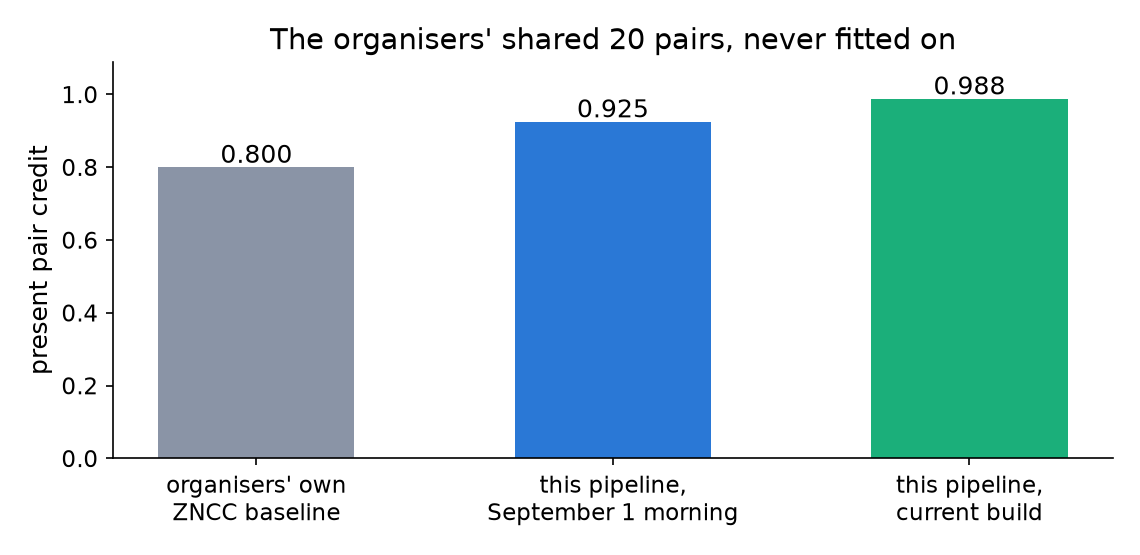
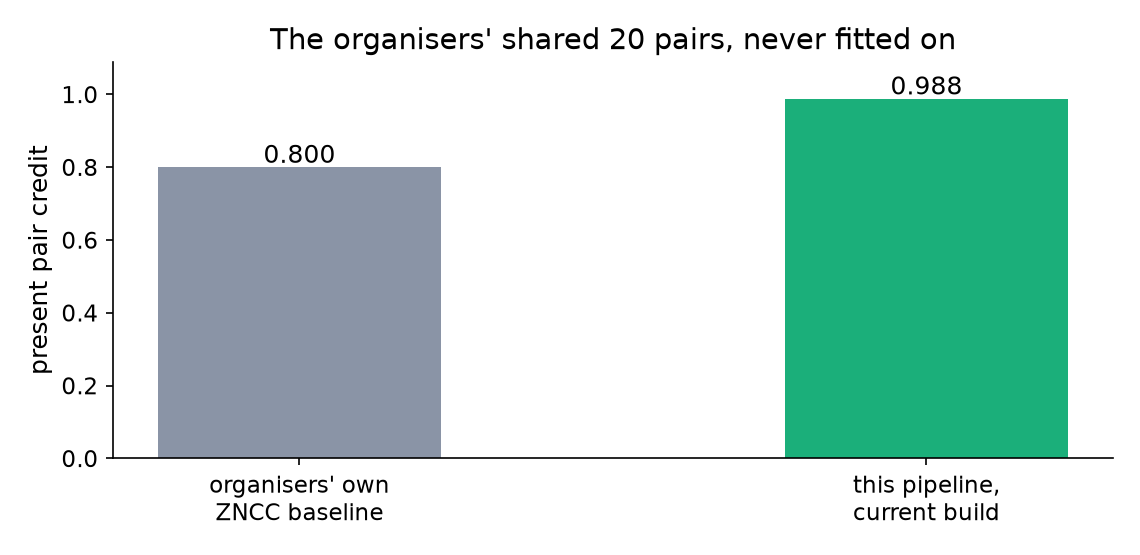
Answer the submission checklist's two verification lines and current the video facing surfaces: a fresh Python 3.11 virtual environment built from the archive's own requirements installs, generates two pairs and registers both through the entry point, proving runnable code, dependencies and outputs 

diff --git a/scripts/make_phase2_figures.py b/scripts/make_phase2_figures.py
@@ -169,10 +169,9 @@ def runtime():
 def organiser_sample():
     """experiments/20260901_organiser_sample_validation and the final battery."""
     fig, ax = plt.subplots(figsize=(7.6, 3.7))
-    labels = ["organisers' own\nZNCC baseline", "this pipeline,\nSeptember 1 morning",
-              "this pipeline,\ncurrent build"]
-    vals = [0.800, 0.925, 0.988]
-    bars = ax.bar(labels, vals, color=[GREY, BLUE, GREEN], width=0.55)
+    labels = ["organisers' own\nZNCC baseline", "this pipeline,\ncurrent build"]
+    vals = [0.800, 0.988]
+    bars = ax.bar(labels, vals, color=[GREY, GREEN], width=0.45)
     for b, v in zip(bars, vals):
         ax.text(b.get_x() + b.get_width() / 2, v + 0.012, f"{v:.3f}", ha="center", fontsize=12)
     ax.set_ylim(0, 1.09)

diff --git a/README.md b/README.md
@@ -412,6 +412,8 @@ The named outstanding experiment in the source, extending the blur bank to repre
 | 5 | Training script or notebook | [notebooks/train_reranker.ipynb](notebooks/train_reranker.ipynb), [scripts/train_reranker.py](scripts/train_reranker.py) | reproduces the whole chain: generate, harvest candidates, train, calibrate, export, and verify that the numpy and torch forward passes agree |
 | 6 | requirements.txt | [requirements_phase2.txt](requirements_phase2.txt), [requirements.txt](requirements.txt), [requirements_freeze.txt](requirements_freeze.txt) | `requirements_phase2.txt` is frozen from a Python 3.11 environment and ships in the submission zip as `requirements.txt`, because the Phase 1 numpy pin has no 3.11 wheels and would not install on the reference machine at all. `requirements.txt` is the development runtime set, verified end to end from a fresh virtual environment, and `requirements_freeze.txt` is the complete `pip freeze` including test and training only packages |
 | 7 | Citation document | [docs/citations.md](docs/citations.md), [references/references.bib](references/references.bib) | 52 references, each verified against the publisher and each tied to the specific parameter, noise model or method choice it supports; these are the sources cited in the submission |
+| 8 | Failure analysis, max 2 pages | [submission/failure_analysis.pdf](submission/failure_analysis.pdf), source [docs/phase2_failure_analysis.md](docs/phase2_failure_analysis.md) | rendered at exactly 2 pages; the packaging self test re reads the page count from the PDF bytes on every build |
+| 9 | Walkthrough video | [Drive folder](https://drive.google.com/drive/folders/1LNOOawzsAabmhB1LChAdT-beJ5i7mDL7?usp=sharing) | the Phase 2 demonstration, one continuous screen recording of the entry point running live on the organisers' twenty shared pairs; the link is shared for anyone with it and was verified from a private browsing session |
 
 The Phase 2 submission zip is built and verified by one command, which packs the entry point, its sources, the shipped weights and the two page failure analysis, then proves the pack works the way the scored run will: it extracts the zip into a fresh directory, runs the entry point there under a Python 3.11 interpreter with a socket shim that turns any network call into an exception, and asserts one row per pair with the exact required columns and zeroed pose on every rejection.
 
@@ -425,13 +427,13 @@ Also in the repository beyond the required list: the complete experiment record 
 
 ## Walkthrough
 
-A recorded run of the system, end to end and unedited.
+### [Watch the Phase 2 demonstration](https://drive.google.com/drive/folders/1LNOOawzsAabmhB1LChAdT-beJ5i7mDL7?usp=sharing)
 
-### [Watch the full recording](https://drive.google.com/file/d/1t1uv_nKDmpo3YISUgpnWzXUI2qzN_WHd/view?usp=sharing)
+One continuous, unedited screen recording of the scored entry point running live on the organisers' twenty shared pairs: the manifest, `register.py` streaming all twenty decisions with each prediction drawn on the search frame as its row lands, the exact seven column output with zeros on every rejected pose, and the run scored against the organisers' ground truth at 0.988 mean credit, 0.38 px median error and no false rejects. Nothing is mocked and no timing is compressed.
 
-[![Walkthrough](docs/images/demo.gif)](https://drive.google.com/file/d/1t1uv_nKDmpo3YISUgpnWzXUI2qzN_WHd/view?usp=sharing)
+[![Walkthrough](docs/images/demo.gif)](https://drive.google.com/drive/folders/1LNOOawzsAabmhB1LChAdT-beJ5i7mDL7?usp=sharing)
 
-The preview above is twenty five seconds drawn from the three minute run: the localizer answering on one pair with its error against the recorded truth, then the success case, the honest failure and the runtime comparison. The full recording additionally covers the environment check, dataset generation, the confidence diagnostics, and the batch, manifest and accelerator invocation forms, and ends with the test suite. A copy is in the repository as [drift_sense_demo.mp4](drift_sense_demo.mp4); GitHub cannot play an mp4 inside a readme, so the link above is the one to use.
+The preview above is drawn from the Phase 1 recording, which remains available [here](https://drive.google.com/file/d/1t1uv_nKDmpo3YISUgpnWzXUI2qzN_WHd/view?usp=sharing) and covers the environment check, dataset generation, the confidence diagnostics, the batch, manifest and accelerator invocation forms, and the test suite; a copy is in the repository as [drift_sense_demo.mp4](drift_sense_demo.mp4).
 
 ## Repository layout
 
